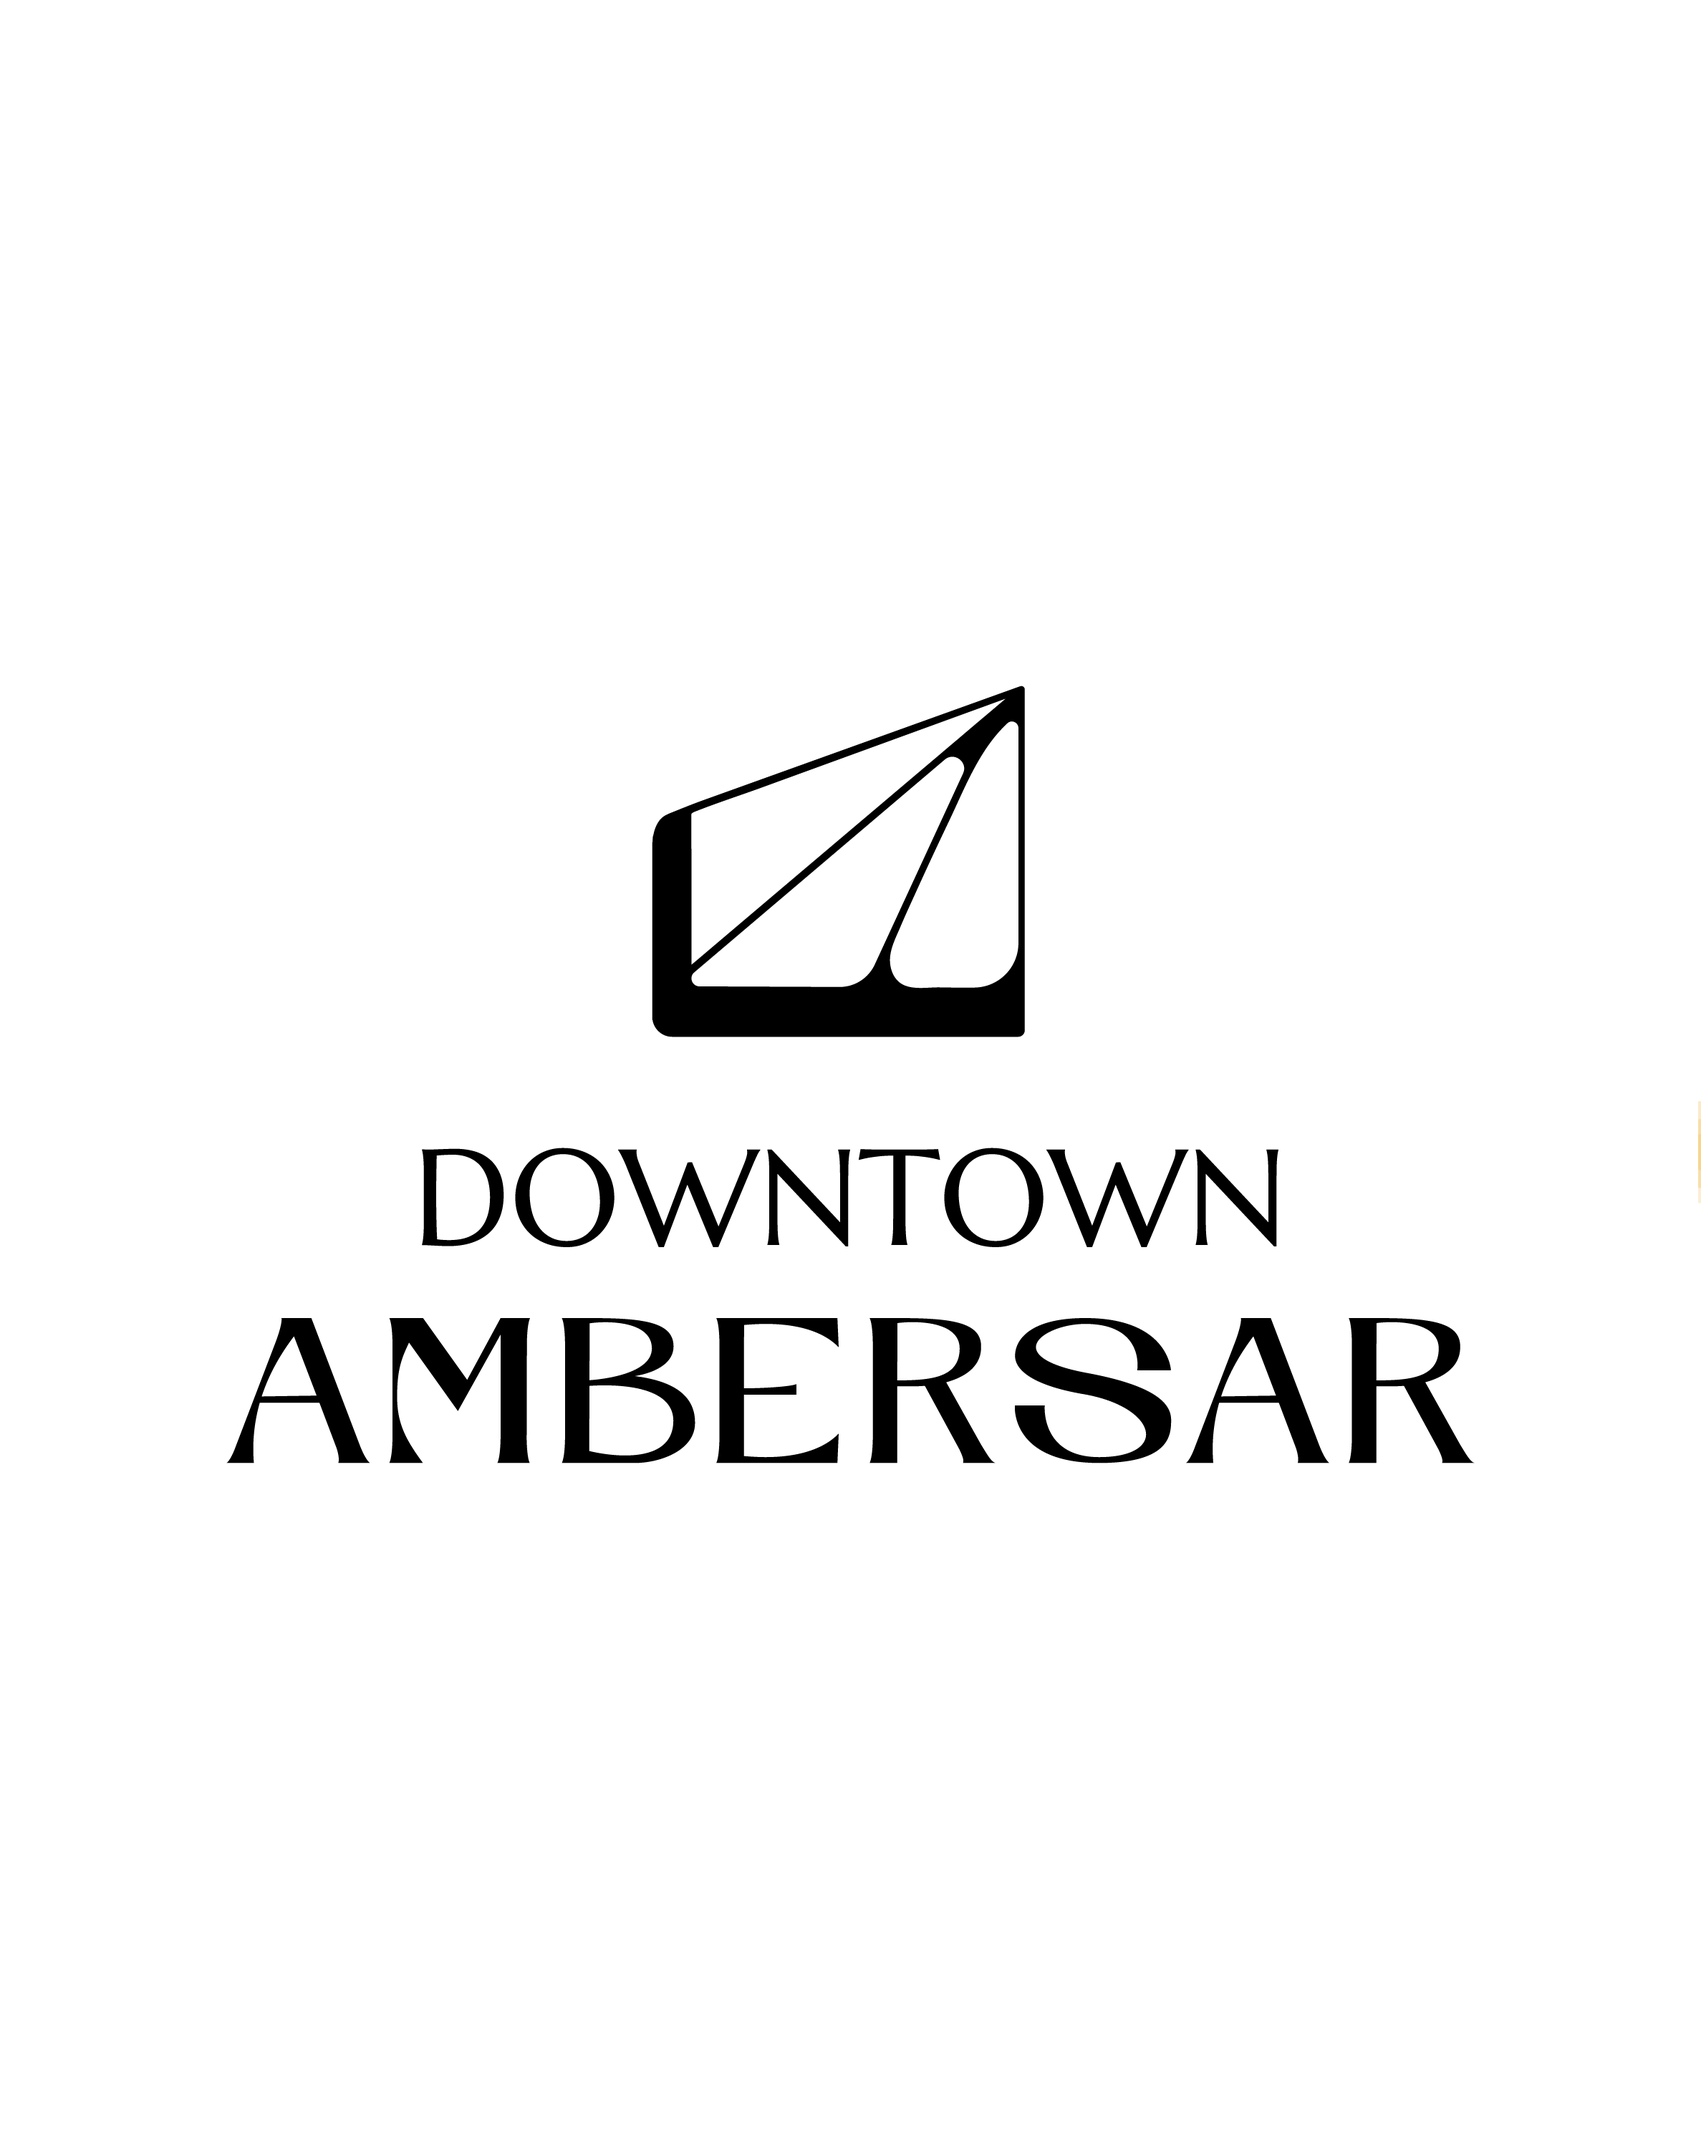
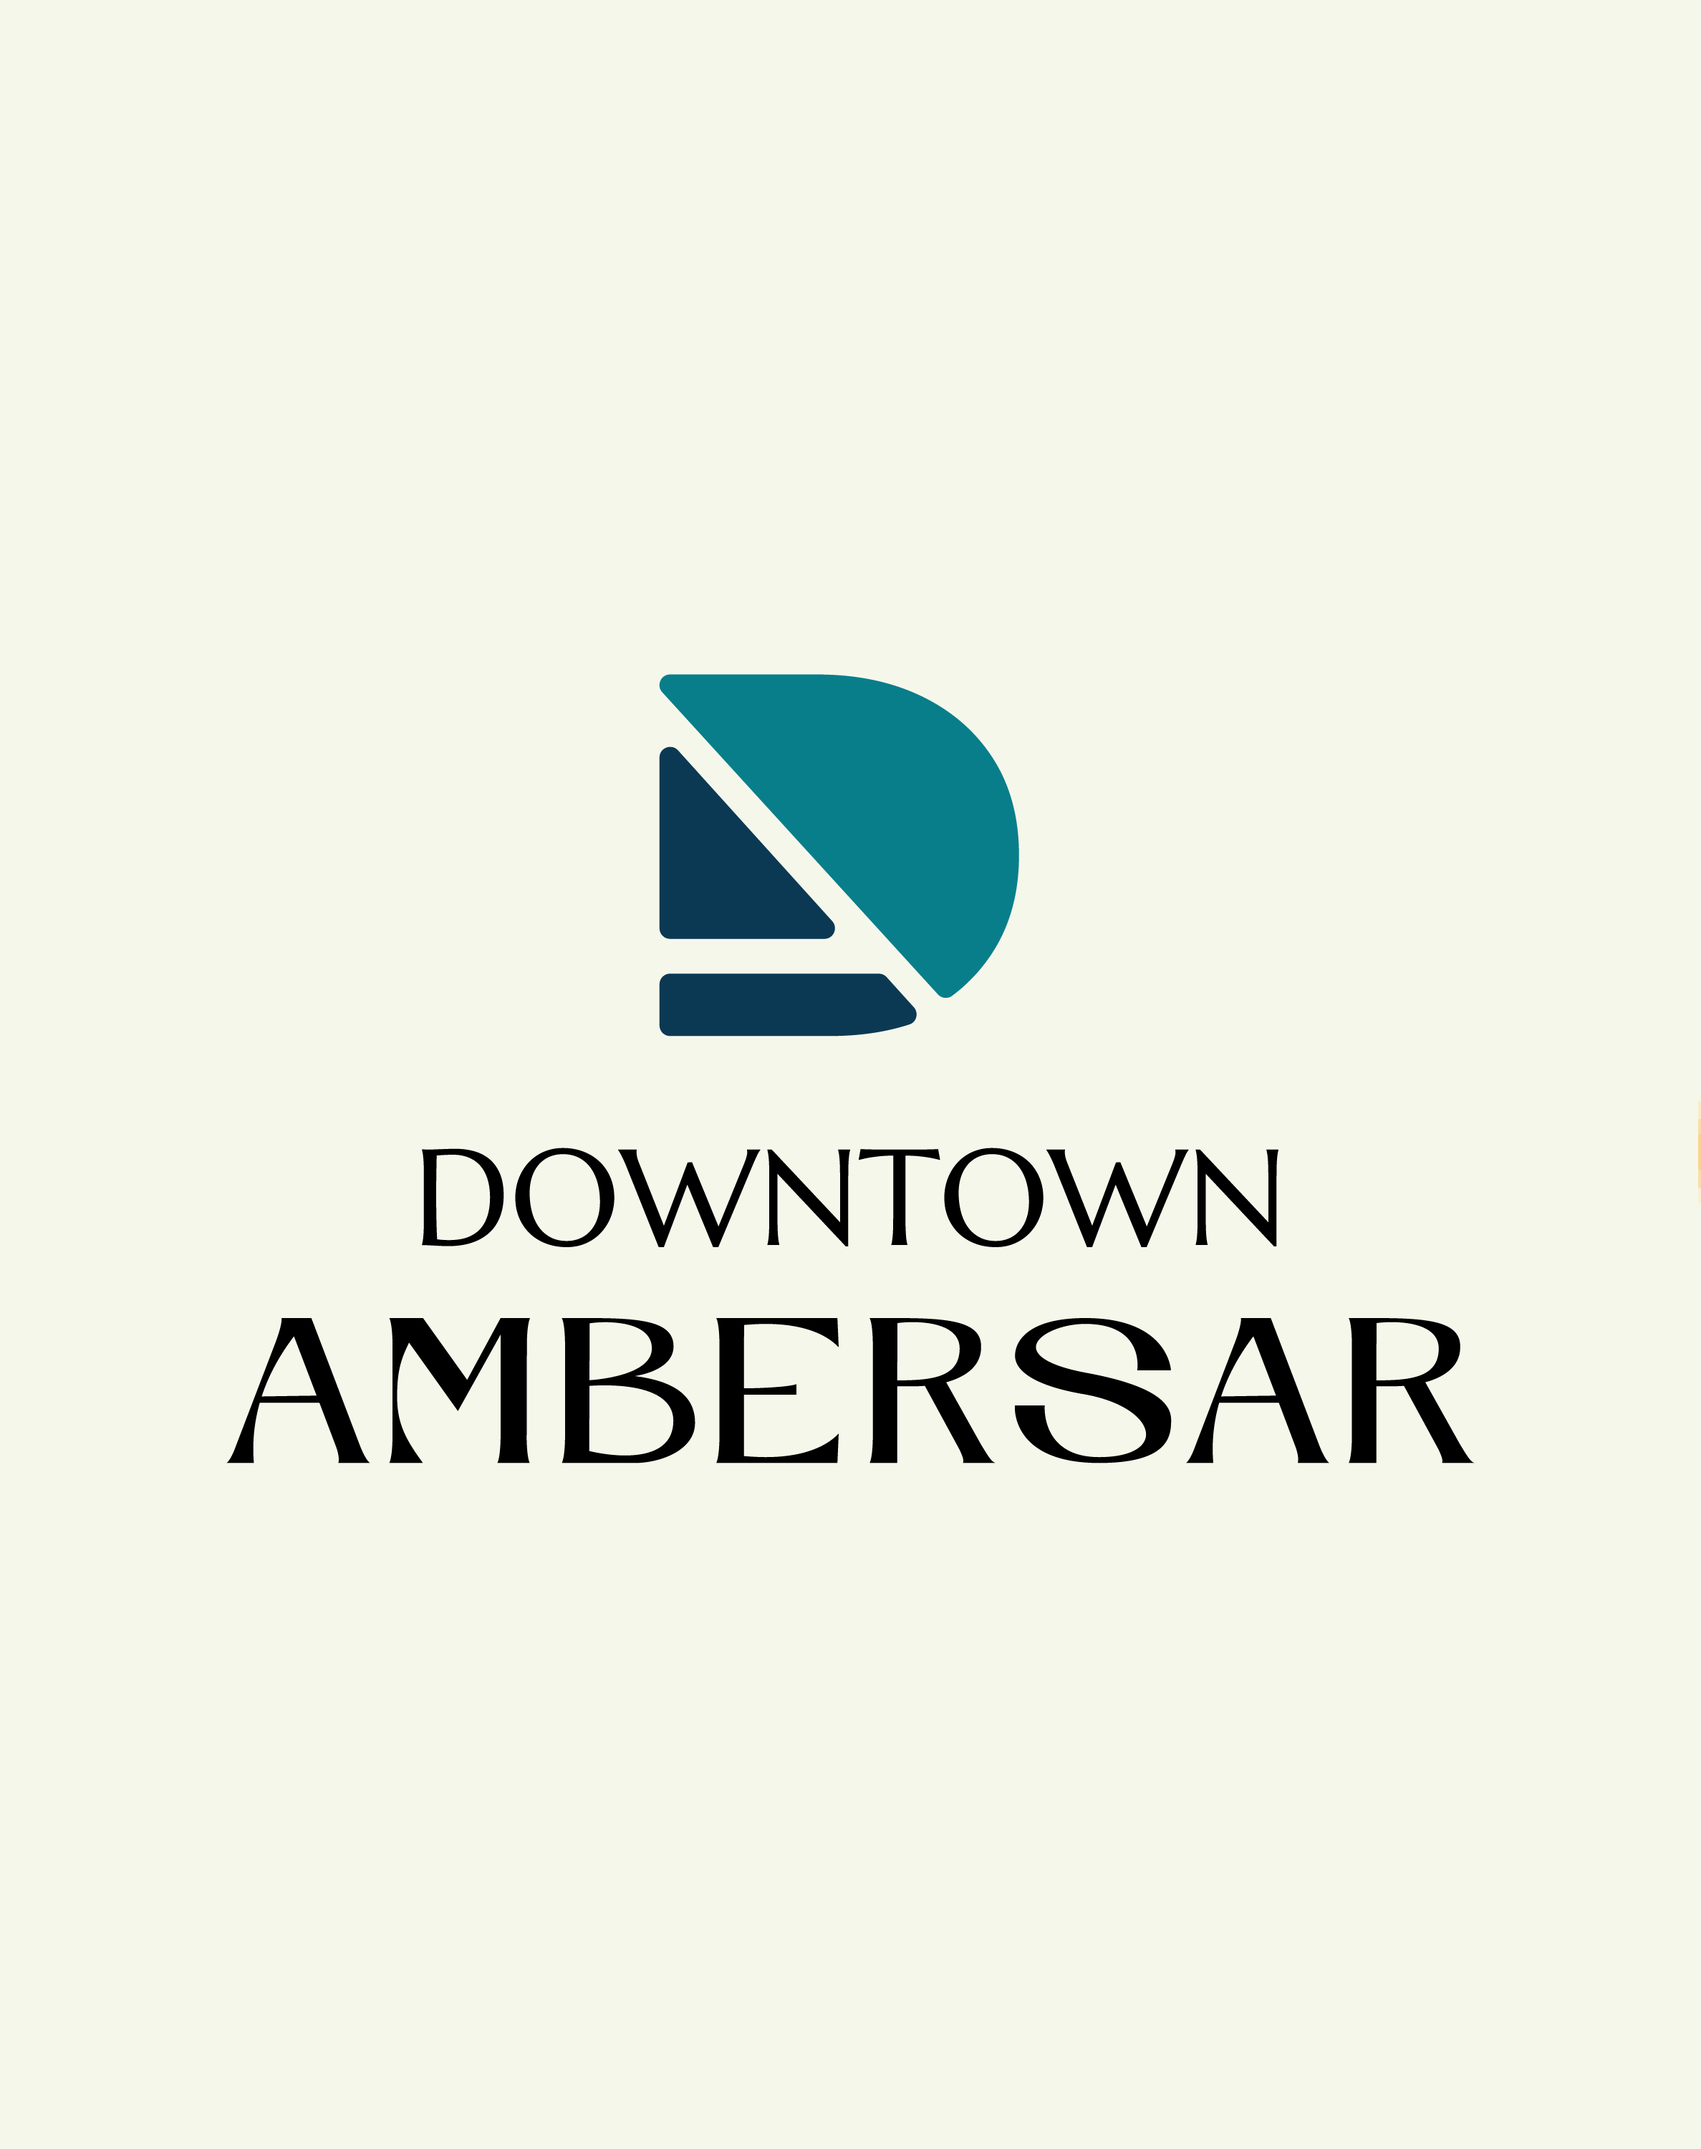
portfoliochanges

Changed region(s): [[0.3739, 0.31, 0.6232, 0.496]]

diff --git a/ambersar.html b/ambersar.html
@@ -54,19 +54,19 @@
 
     <main>
         <div class="Portfolio-grid">
-            <img src="Assets/shakesbear elements/1.png" class="slide1" alt="slide1">
-            <img src="Assets/shakesbear elements/2.png" class="slide2" alt="slide2">
-            <img src="Assets/shakesbear elements/3.png" class="slide3" alt="slide3">
-            <img src="Assets/shakesbear elements/4.png" class="slide4" alt="slide4">
-            <img src="Assets/shakesbear elements/5.png" class="slide5" alt="slide5">
-            <img src="Assets/shakesbear elements/6.png" class="slide6" alt="slide5">
-            <img src="Assets/shakesbear elements/7.png" class="slide7" alt="slide5">
-            <img src="Assets/shakesbear elements/8.png" class="slide8" alt="slide5">
-            <img src="Assets/shakesbear elements/9.png" class="slide9" alt="slide5">
-            <img src="Assets/shakesbear elements/10.png" class="slide510" alt="slide5">
+            <img src="Assets/downtown/1.png" class="slide2" alt="slide2">
+            <img src="Assets/downtown/2.png" class="slide2" alt="slide2">
+            <img src="Assets/downtown/3.png" class="slide3" alt="slide3"> 
+            <img src="Assets/downtown/4.png" class="slide4" alt="slide4">
+            <img src="Assets/downtown/5.png" class="slide5" alt="slide5">
+            <img src="Assets/downtown/6.png" class="slide6" alt="slide6">
+            <img src="Assets/downtown/7.png" class="slide7" alt="slide7">
+            <img src="Assets/downtown/8.png" class="slide8" alt="slide8">
+            <img src="Assets/downtown/9.png" class="slide9" alt="slide9">
+            <img src="Assets/downtown/10.png" class="slide10" alt="slide10">
+            <img src="Assets/downtown/11.png" class="slide11" alt="slide11">
         </div>
         
-
         <div class="footer">
             <div class="Footer-1">
               <div class="footer-contact-info">

diff --git a/cosmobrands.html b/cosmobrands.html
@@ -54,16 +54,16 @@
 
     <main>
         <div class="Portfolio-grid">
-            <img src="Assets/shakesbear elements/1.png" class="slide1" alt="slide1">
-            <img src="Assets/shakesbear elements/2.png" class="slide2" alt="slide2">
-            <img src="Assets/shakesbear elements/3.png" class="slide3" alt="slide3">
-            <img src="Assets/shakesbear elements/4.png" class="slide4" alt="slide4">
-            <img src="Assets/shakesbear elements/5.png" class="slide5" alt="slide5">
-            <img src="Assets/shakesbear elements/6.png" class="slide6" alt="slide5">
-            <img src="Assets/shakesbear elements/7.png" class="slide7" alt="slide5">
-            <img src="Assets/shakesbear elements/8.png" class="slide8" alt="slide5">
-            <img src="Assets/shakesbear elements/9.png" class="slide9" alt="slide5">
-            <img src="Assets/shakesbear elements/10.png" class="slide510" alt="slide5">
+            <img src="Assets/cosmo/1.png" class="slide1" alt="slide1">
+            <img src="Assets/cosmo/2.png" class="slide2" alt="slide2">
+            <img src="Assets/cosmo/3.png" class="slide3" alt="slide3">
+            <img src="Assets/cosmo/4.png" class="slide3" alt="slide3">
+            <img src="Assets/cosmo/5.png" class="slide3" alt="slide3">
+            <img src="Assets/cosmo/6.png" class="slide3" alt="slide3">
+            <img src="Assets/cosmo/7.png" class="slide3" alt="slide3">
+            <img src="Assets/cosmo/8.png" class="slide3" alt="slide3">
+            <img src="Assets/cosmo/9.png" class="slide3" alt="slide3">
+            <img src="Assets/cosmo/10.png" class="slide3" alt="slide3">
         </div>
         
 

diff --git a/rough.js b/rough.js
@@ -1,0 +1,29 @@
+function placeLogosRandomly() {
+    var doc = app.activeDocument;
+    var logo = doc.selection[0]; // Select the logo before running the script
+    if (!logo) {
+        alert("Please select your logo before running the script.");
+        return;
+    }
+    
+    var boxWidth = 500; // Define the box width
+    var boxHeight = 500; // Define the box height
+    var numLogos = 20; // Number of logos to place
+    
+    for (var i = 0; i < numLogos; i++) {
+        var duplicate = logo.duplicate();
+        
+        // Generate random position within the box
+        var x = Math.random() * boxWidth;
+        var y = Math.random() * boxHeight;
+        duplicate.position = [x, y];
+        
+        // Apply random rotation
+        var rotation = Math.random() * 360;
+        duplicate.rotate(rotation);
+    }
+    
+    alert("Logos placed randomly inside the box!");
+}
+
+placeLogosRandomly();

diff --git a/script.js b/script.js
@@ -311,7 +311,7 @@ document.addEventListener('DOMContentLoaded', () => {
 
   // Animate the tooltip's position smoothly toward the target position.
   function animateTooltip() {
-    const smoothing = 0.1; // Adjust this value for more/less delay.
+    const smoothing = 0.2; // Adjust this value for more/less delay.
     currentX += (targetX - currentX) * smoothing;
     currentY += (targetY - currentY) * smoothing;
 
@@ -354,6 +354,10 @@ document.addEventListener('DOMContentLoaded', () => {
     });
   });
 });
+
+
+
+
 
 // Attach listener to all <td> elements that have a data-url attribute
 document.addEventListener('DOMContentLoaded', () => {

diff --git a/Portfolio.html b/Portfolio.html
@@ -112,7 +112,7 @@
         </div>
       </div>
 
-      <div class="downtown-portfolio branding-project" data-name="Downtown Ambersar" data-url="downtown.html">
+      <div class="downtown-portfolio branding-project" data-name="Downtown Ambersar" data-url="ambersar.html">
         <div class="downtown-logo-container">
           <img src="Assets/Group-4.svg" alt="downtown-logo" class="downtown-logo">
         </div>

diff --git a/portfolio.scss b/portfolio.scss
@@ -287,8 +287,12 @@
   gap: 10px;
   width: 100%;
   height: 420px;
-  background: #FFFFFF;
+  background: #F6F7EB;
   transform: translate(0, 0);
+
+.downtown-logo-container {
+  width: 225px;
+}
 }
 
 .marketingfreaks-portfolio {
@@ -342,3 +346,4 @@
   width: 30px;
   height: 30px;
 }
+

diff --git a/portfolio.css b/portfolio.css
@@ -258,8 +258,11 @@
   gap: 10px;
   width: 100%;
   height: 420px;
-  background: #FFFFFF;
+  background: #F6F7EB;
   transform: translate(0, 0);
+}
+.downtown-portfolio .downtown-logo-container {
+  width: 225px;
 }
 
 .marketingfreaks-portfolio {
